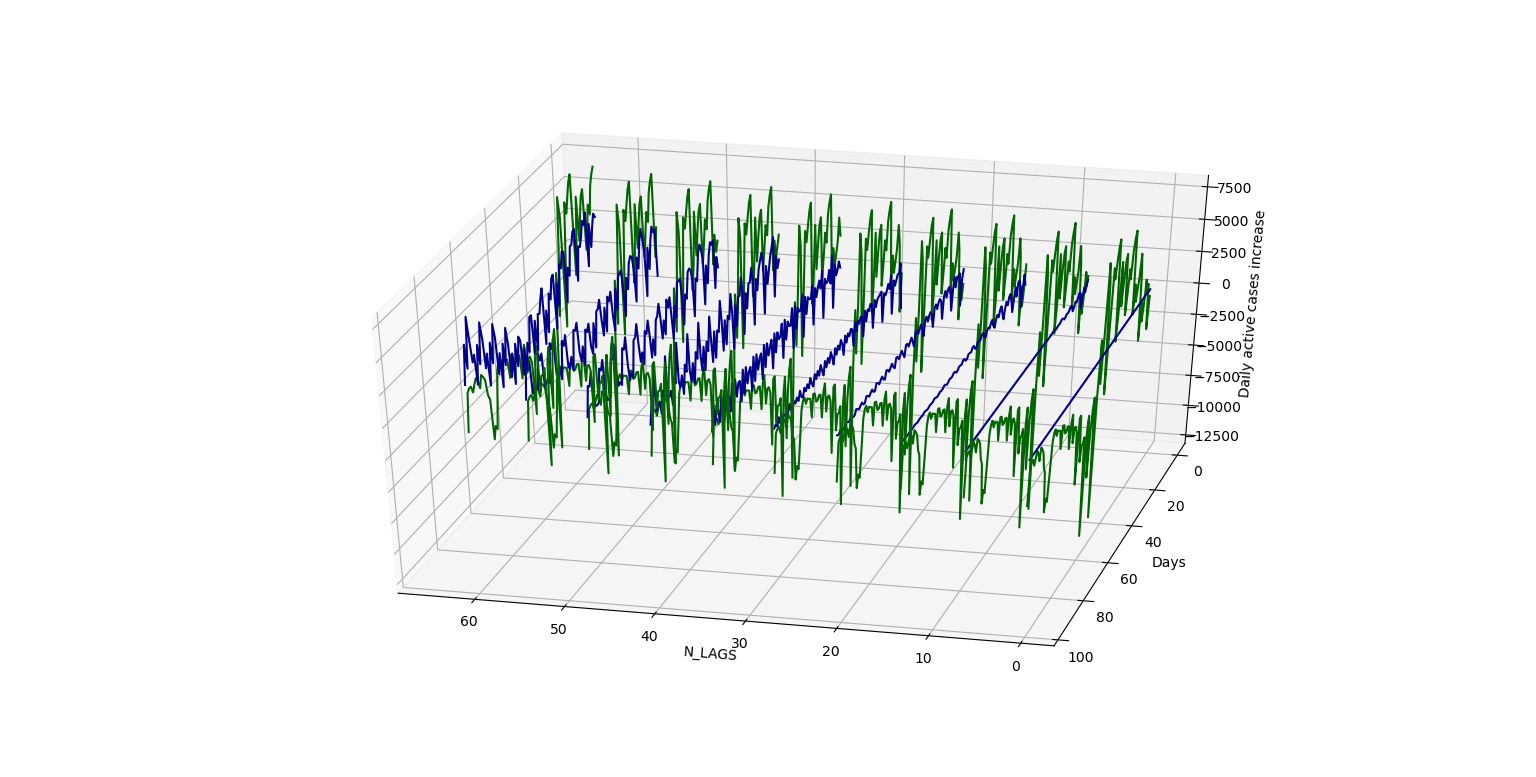
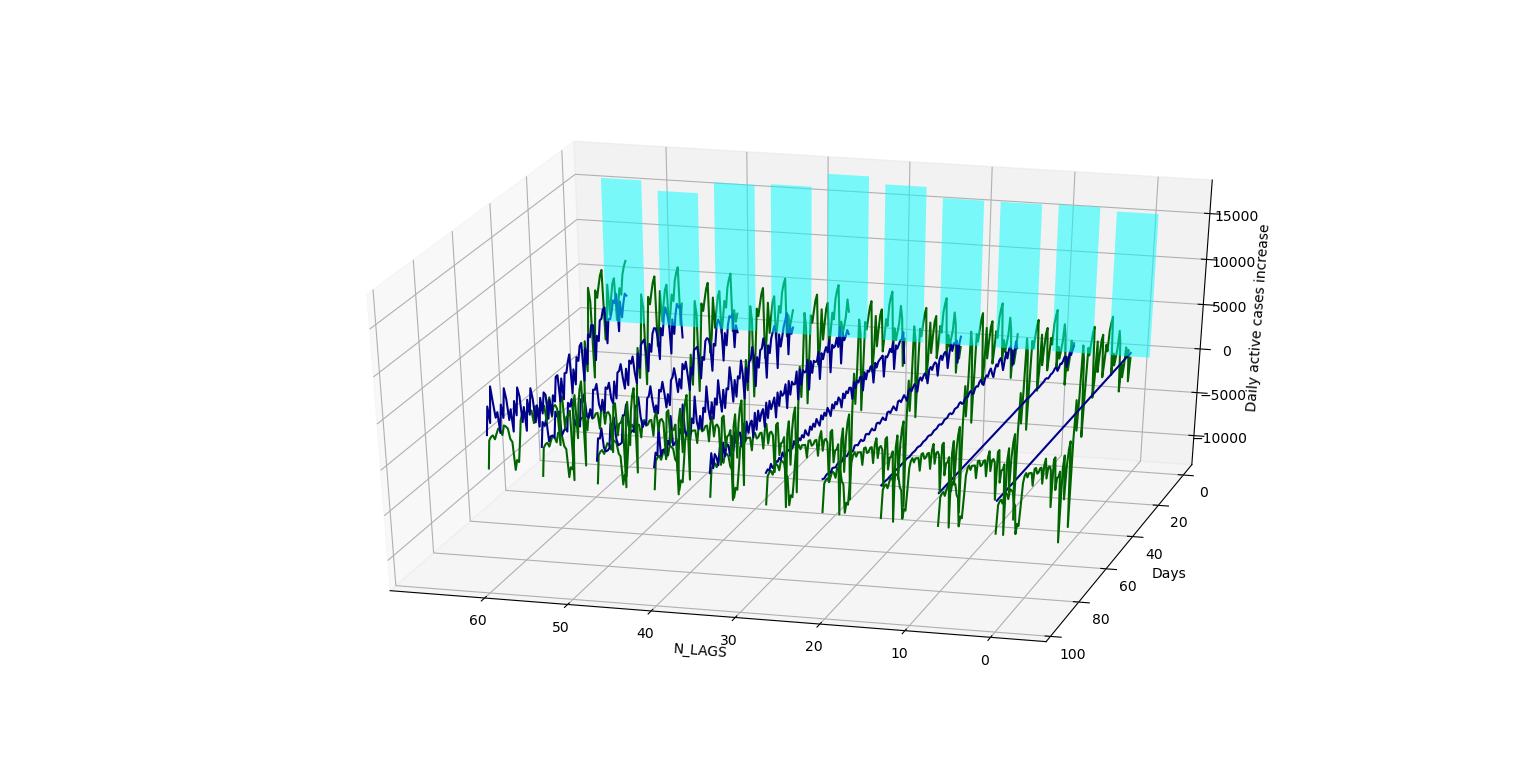
upload N_LagsxDaysxDACI

Changed region(s): [[0.25, 0.1853, 0.8438, 0.8649], [0.6875, 0.834, 0.7188, 0.8649]]

diff --git a/Python/Previsions/Main.py b/Python/Previsions/Main.py
@@ -201,7 +201,8 @@ def test_NLAG(table, target_shift, n_Lag, length_Lag, n_min, n_step):
 
 	fig = plt.figure()
 	ax = fig.add_subplot(111, projection = '3d')
-	
+	mses = []
+	Ns = []
 	for N in range(n_min, n_Lag+1, n_step):
 		model, trained, expected, predT, predS, Trainsize, Testsize, myInput, table_Ativ = test_LinearRegression(table,target_shift, N, length_Lag)
 
@@ -211,10 +212,23 @@ def test_NLAG(table, target_shift, n_Lag, length_Lag, n_min, n_step):
 
 		pe = expected
 
+
+		mse = (10**3)*np.mean((predS-expected)**2)/10**6
+		mses += [mse]
+		Ns += [N]
+
+
+		ax.bar([N], [mse], zs =[1], zdir = 'y', color = 'aqua', width = 5, alpha = 0.5)
 		ax.plot(px,py,zs = pe, color = 'darkgreen')
 		ax.plot(px,py,zs = pz, color = 'darkblue')
 		print(f'N: {N}\t Trainsize: {Trainsize}\t Testsize: {Testsize}\t Total: {Trainsize+Testsize}')
 
+
+	bx = Ns
+	by = [1]* len(Ns)
+	bz = mses
+
+	
 	ax.set_xlabel('N_LAGS')
 	ax.set_ylabel('Days')
 	ax.set_zlabel('Daily active cases increase')
